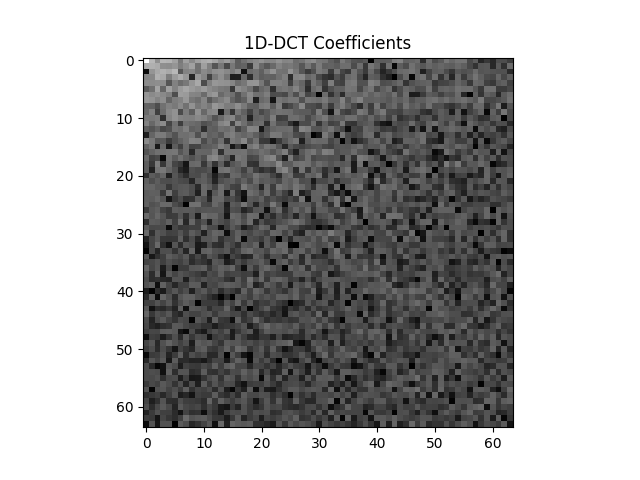
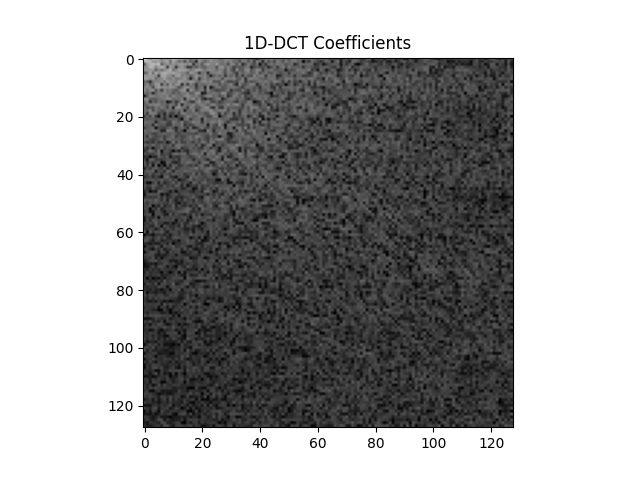
HW2: 2D-DCT (512*512)

Changed region(s): [[0.1562, 0.125, 0.8125, 0.9375]]

diff --git a/Homework/HW2/src/1D-DCT.py b/Homework/HW2/src/1D-DCT.py
@@ -2,6 +2,7 @@ import numpy as np
 import cv2
 import matplotlib.pyplot as plt
 import time
+from tqdm import tqdm
 
 
 # Implement fast 2D-DCT using two 1D-DCT
@@ -25,12 +26,12 @@ def two_dct_1d(image):
     dct_rows = np.zeros((M, N))
 
     # Apply 1D-DCT on rows
-    for i in range(M):
+    for i in tqdm(range(M), desc='1D-DCT on rows'):
         dct_rows[i, :] = dct_1d(image[i, :])
 
     # Apply 1D-DCT on columns
     dct = np.zeros((M, N))
-    for j in range(N):
+    for j in tqdm(range(N), desc='1D-DCT on columns'):
         dct[:, j] = dct_1d(dct_rows[:, j])
 
     return dct
@@ -58,12 +59,12 @@ def two_idct_1d(dct):
     idct_temp = np.zeros((M, N))
 
     # Apply 1D-IDCT on columns
-    for j in range(N):
+    for j in tqdm(range(N), desc='1D-IDCT on columns'):
         idct_temp[:, j] = idct_1d(dct[:, j])
 
     # Apply 1D-IDCT on rows
     idct = np.zeros((M, N))
-    for i in range(M):
+    for i in tqdm(range(M), desc='1D-IDCT on rows'):
         idct[i, :] = idct_1d(idct_temp[i, :])
 
     return np.clip(idct, 0, 255)
@@ -86,7 +87,7 @@ if __name__ == '__main__':
     # 1. Load the image and convert to grayscale
     print("1. Load the image and convert to grayscale...")
     image = cv2.imread('image/lena.png', cv2.IMREAD_GRAYSCALE)
-    image = cv2.resize(image, (64, 64))
+    image = cv2.resize(image, (256, 256))
     if image is None:
         raise ValueError(
             "Image not found. Make sure 'lena.png' is in the current directory.")
@@ -119,14 +120,17 @@ if __name__ == '__main__':
     # 6. Validate the output using OpenCV's DCT function
     print("6. Validate the output using OpenCV's DCT function...")
     start_time = time.time()
-    dct_opencv = cv2.dct(np.float32(image))
+    dct_coefficients_opencv = cv2.dct(np.float32(image))
     end_time = time.time()
     print(f"OpenCV's DCT runtime: {end_time - start_time:.4f} seconds")
 
-    log_dct_opencv = np.log(np.abs(dct_opencv) + 1)
+    log_dct_opencv = np.log(np.abs(dct_coefficients_opencv) + 1)
     plt.imshow(log_dct_opencv, cmap='gray')
     plt.title('DCT Coefficients (OpenCV)')
     plt.savefig('image/DCT_coefficients_OpenCV.png')
     # plt.show()
+    
+    reconstructed_image_opencv = cv2.idct(np.float32(dct_coefficients_opencv))
+    cv2.imwrite('lena_reconstructed_OpenCV.png', reconstructed_image_opencv)
 
     print("END!")

diff --git a/Homework/HW2/src/2D-DCT.py b/Homework/HW2/src/2D-DCT.py
@@ -2,6 +2,7 @@ import numpy as np
 import cv2
 import matplotlib.pyplot as plt
 import time
+from tqdm import tqdm
 
 
 # Implement 2D-DCT
@@ -9,7 +10,8 @@ def dct_2d(image):
     M, N = image.shape
     dct = np.zeros((M, N))
     
-    for u in range(M):
+    for u in tqdm(range(M), desc='2D-DCT'):
+        print("u:", u)
         for v in range(N):
             sum_val = 0
             for x in range(M):
@@ -28,7 +30,7 @@ def idct_2d(dct):
     M, N = dct.shape
     idct = np.zeros((M, N))
     
-    for x in range(M):
+    for x in tqdm(range(M), desc='2D-IDCT'):
         for y in range(N):
             sum_val = 0
             for u in range(M):
@@ -59,7 +61,7 @@ if __name__ == '__main__':
     # 1. Load the image and convert to grayscale
     print("1. Load the image and convert to grayscale...")
     image = cv2.imread('image/lena.png', cv2.IMREAD_GRAYSCALE)
-    image = cv2.resize(image, (64, 64))
+    image = cv2.resize(image, (256, 256))
     if image is None:
         raise ValueError(
             "Image not found. Make sure 'lena.png' is in the current directory.")
@@ -93,14 +95,17 @@ if __name__ == '__main__':
     # 6. Validate the output using OpenCV's DCT function
     print("6. Validate the output using OpenCV's DCT function...")
     start_time = time.time()
-    dct_opencv = cv2.dct(np.float32(image))
+    dct_coefficients_opencv = cv2.dct(np.float32(image))
     end_time = time.time()
     print(f"OpenCV's DCT runtime: {end_time - start_time:.4f} seconds")
     
-    log_dct_opencv = np.log(np.abs(dct_opencv) + 1)
+    log_dct_opencv = np.log(np.abs(dct_coefficients_opencv) + 1)
     plt.imshow(log_dct_opencv, cmap='gray')
     plt.title('DCT Coefficients (OpenCV)')
     plt.savefig('image/DCT_coefficients_OpenCV.png')
     # plt.show()
+    
+    reconstructed_image_opencv = cv2.idct(np.float32(dct_coefficients_opencv))
+    cv2.imwrite('lena_reconstructed_OpenCV.png', reconstructed_image_opencv)
     
     print("END!")
